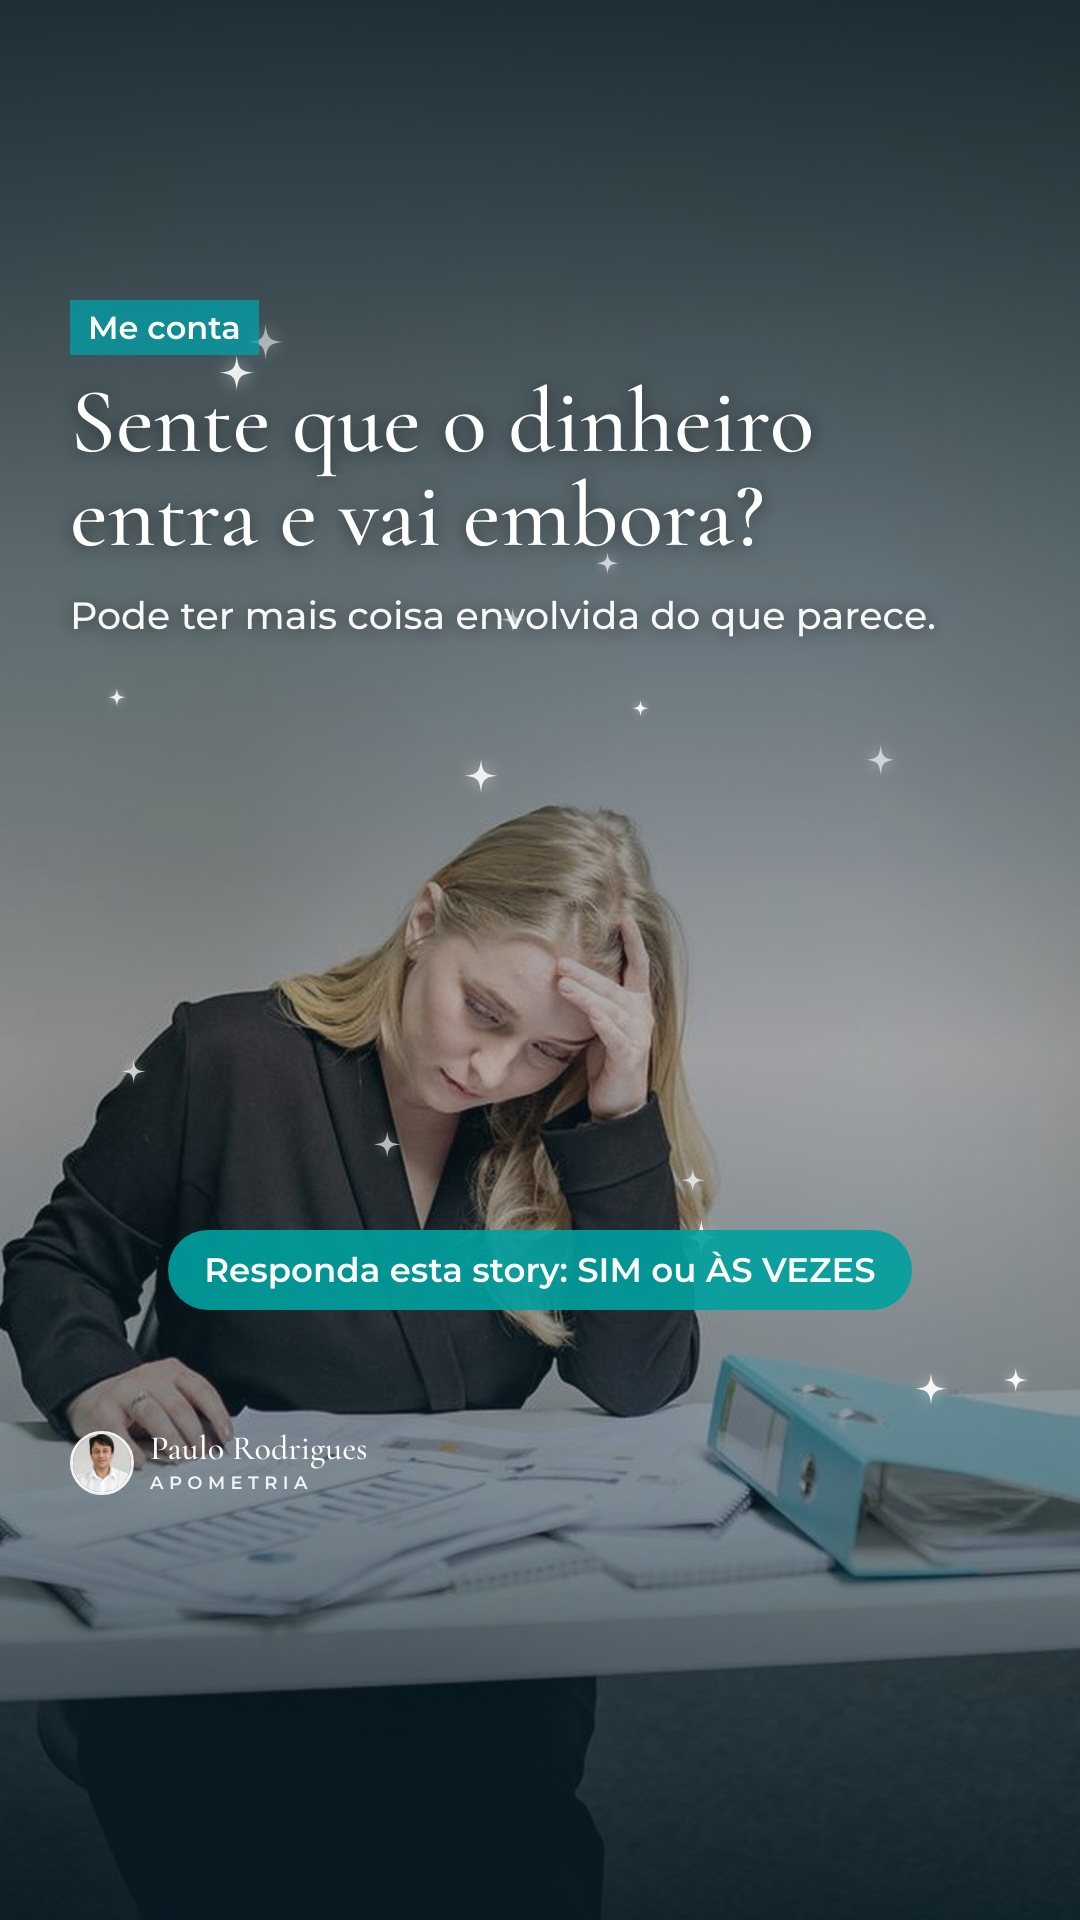
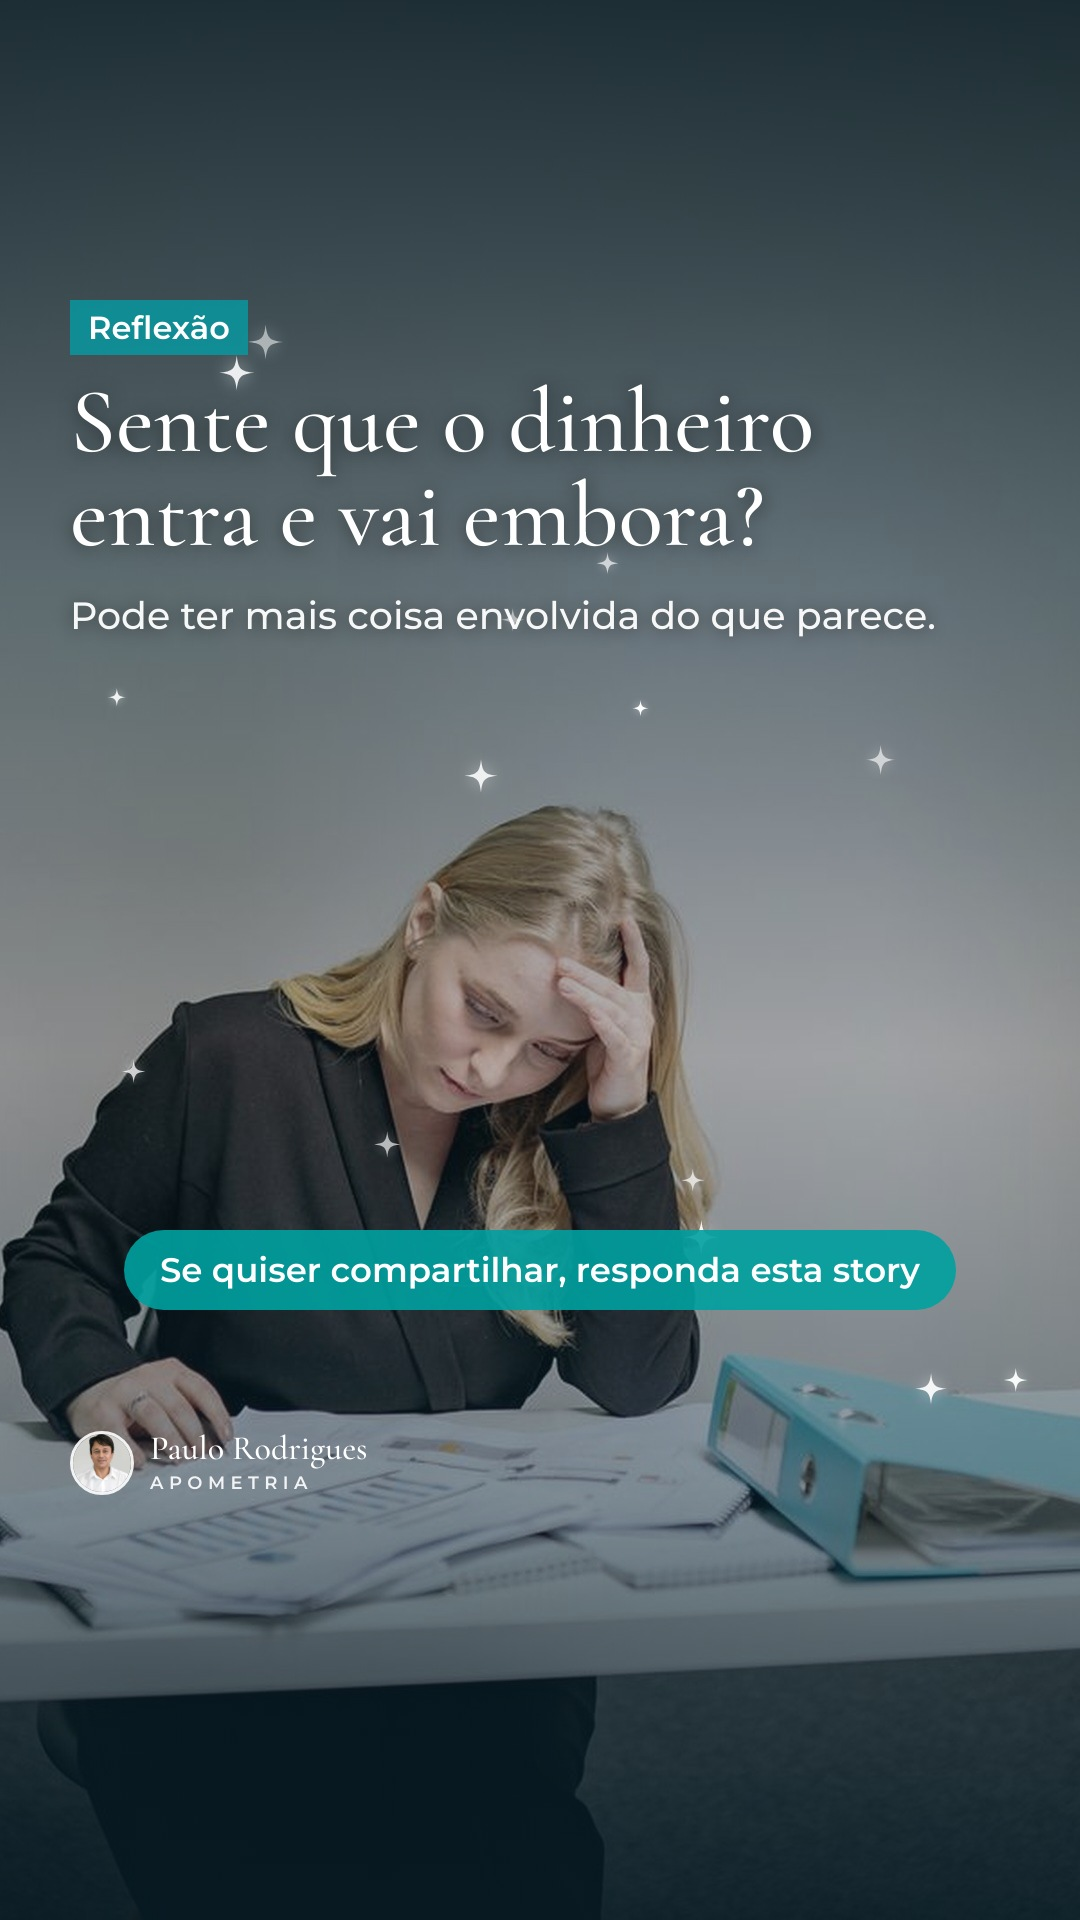
Stories Apometria: chamadas com linguagem mais séria, sem emojis
Claude-Session: https://claude.ai/code/session_01JEWNugGqZtfRNNpR6FEnd2

Changed region(s): [[0.0917, 0.625, 0.8861, 0.6875], [0.0917, 0.1562, 0.2444, 0.1875]]

diff --git a/producoes/2026-11-23-apometria-prosperidade/stories/roteiro-stories.md b/producoes/2026-11-23-apometria-prosperidade/stories/roteiro-stories.md
@@ -4,7 +4,7 @@ Publicados pelo estúdio, sem ação no celular. O engajamento vem de respostas 
 
 | # | Horário sugerido | Tema | Chamada |
 |---|---|---|---|
-| 1 | manhã (10h) | Me conta: o dinheiro entra e vai embora? | Responda esta story: SIM ou ÀS VEZES |
-| 2 | logo após o post | Novo post (prévia da capa) | Já está no perfil: arraste as 5 imagens |
+| 1 | manhã (10h) | Reflexão: o dinheiro entra e vai embora? | Se quiser compartilhar, responda esta story |
+| 2 | logo após o post | Novo post (prévia da capa) | O post completo já está no perfil |
 | 3 | tarde (15h) | Você sabia? Prosperidade é energia em movimento | Veja as possíveis causas no post de hoje |
-| 4 | noite (21h) | Pergunte ao Paulo: o que mais trava sua vida financeira? | Mande no direct |
+| 4 | noite (21h) | Pergunte ao Paulo: o que mais trava sua vida financeira? | Envie sua resposta por mensagem |

diff --git a/producoes/2026-11-14-apometria-alcoolismo/stories/roteiro-stories.md b/producoes/2026-11-14-apometria-alcoolismo/stories/roteiro-stories.md
@@ -4,7 +4,7 @@ Publicados pelo estúdio, sem ação no celular. O engajamento vem de respostas 
 
 | # | Horário sugerido | Tema | Chamada |
 |---|---|---|---|
-| 1 | manhã (10h) | Me conta: "eu não queria, mas não consegui parar" | Responda com um 💙 se já ouviu isso |
-| 2 | logo após o post | Novo post (prévia da capa) | Já está no perfil: arraste as 7 imagens |
+| 1 | manhã (10h) | Reflexão: "eu não queria, mas não consegui parar" | Se quiser compartilhar a sua experiência, responda esta story |
+| 2 | logo após o post | Novo post (prévia da capa) | O post completo já está no perfil |
 | 3 | tarde (15h) | Você sabia? A vontade pode não ser só da pessoa | A explicação completa está no post de hoje |
-| 4 | noite (21h) | Pergunte ao Paulo | Mande sua dúvida no direct |
+| 4 | noite (21h) | Pergunte ao Paulo | Envie sua dúvida por mensagem |

diff --git a/marcas/apometria-brasil/aprendizados.md b/marcas/apometria-brasil/aprendizados.md
@@ -31,3 +31,4 @@ Os agentes leem este arquivo antes de criar.
 - 24/11/2026 · Paleta "roxa demais": reduzir o lilás a um toque leve no alto; base em azul-petróleo; botões em turquesa (não lilás). Vale para carrossel e stories.
 - 24/11/2026 · Foto da moça sentada (lâmina 4 da prosperidade) "nada a ver" com o texto: preferir imagens que ilustrem a ideia do texto (ex.: névoa, ambiente), não retrato genérico de pessoa triste.
 - 24/11/2026 · Stories SEM figurinhas (enquete, quiz, caixinha, link): o sistema tem que ser 100% automático. Chamadas por escrito: "responda esta story", "mande no direct", "veja o post de hoje".
+- 24/11/2026 · Nada de "comente com coração" ou chamadas informais com emoji nos stories: linguagem séria e respeitosa ("Se quiser compartilhar, responda esta story", "Envie sua dúvida por mensagem").
